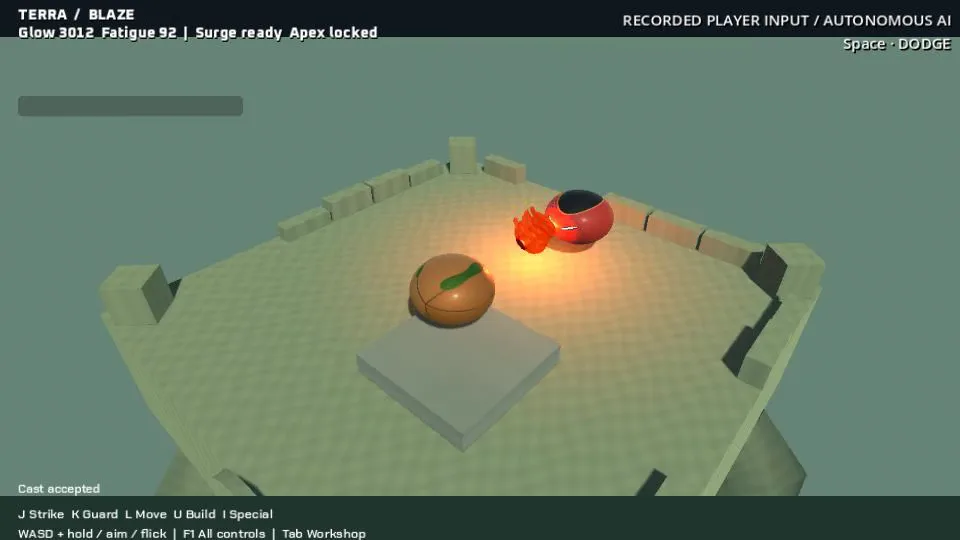
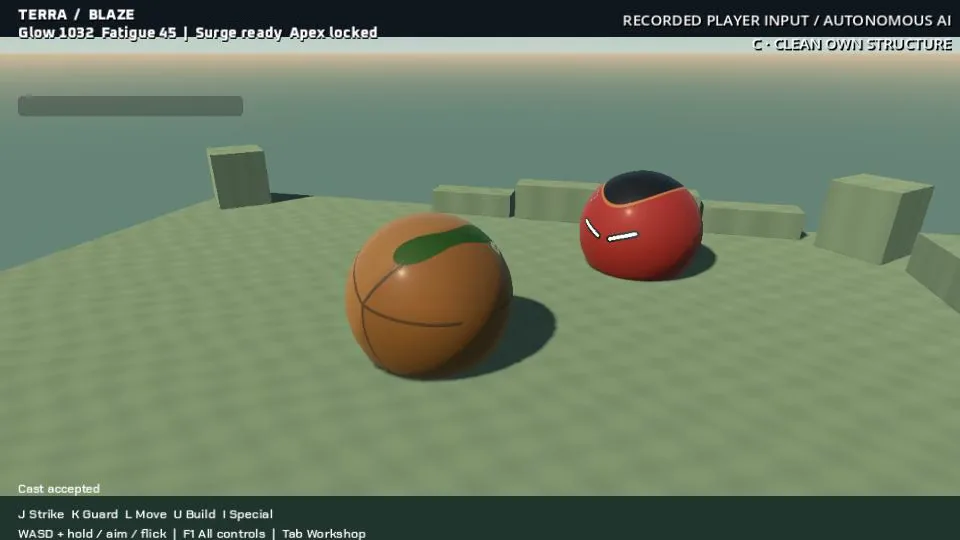
Update play stills with Clean and late movement

diff --git a/index.html b/index.html
@@ -1,1 +1,1 @@
-<!doctype html><html lang="en"><head><meta charset="utf-8"><meta name="viewport" content="width=device-width,initial-scale=1"><meta name="description" content="Orb Fighters: building a living sandbox, one readable clash at a time."><meta name="color-scheme" content="light"><title>Development journal &middot; Orb Fighters</title><link rel="stylesheet" href="assets/style.css"></head><body><a class="skip" href="#main">Skip to content</a><header><a class="brand" href="index.html"><span class="brand-mark" aria-hidden="true">OF</span><span>ORB FIGHTERS<small>DEVELOPMENT JOURNAL</small></span></a><nav aria-label="Main navigation"><a href="index.html" aria-current="page">Home</a><a href="milestones.html">Milestones</a><a href="gallery.html">Gallery</a><a href="design.html">Design</a></nav></header><main id="main"><section class="hero"><div><p class="eyebrow">A WORLD IN THE MAKING</p><h1>Small beings.<br><span>Limitless possibility.</span></h1><p class="intro">Follow Orb Fighters as a living sandbox takes shape: expressive orbs, physical powers, and fights that leave a mark.</p><a class="button" href="milestones.html">Follow the milestones <span aria-hidden="true">&rarr;</span></a></div><div class="hero-media"><a class="hero-image-link" href="posts/2026-10-02-the-orbs-side-by-side.html" aria-label="Read the orb shell development update"><figure class="wip-still"><img src="assets/media/2026-10-02-the-orbs-side-by-side-still-2.webp?v=smooth-stone" alt="MAGNUS painting beside a smooth dark slate orb with a blue meridian and small minus and plus eyes" loading="eager" decoding="async"><figcaption><span class="wip-label">Work in progress</span> MAGNUS WIP: the dark slate shell and blue meridian remain distinct. The render is cleaner and cloudier than the painting, with a fairly uniform bright eye core.</figcaption></figure></a></div></section><section class="updates"><div class="section-title"><h2>Latest from the workshop</h2><span>NEWEST FIRST</span></div><div class="post-grid"><article class="post-card"><figure class="wip-still"><a href="assets/media/2026-10-02-twenty-seconds-in-the-duel-still-2.webp"><img src="assets/media/2026-10-02-twenty-seconds-in-the-duel-still-2.webp" alt="TERRA stands on a raised stone build as BLAZE plasma lights the nearby arena" width="960" height="540" loading="lazy" decoding="async"></a><figcaption><span class="wip-label">Work in progress</span> 2.40 s - A real stone build and BLAZE plasma are visible in the same gameplay view. This recorded-input run is not human GUI play or reference animation.</figcaption></figure><div class="post-meta"><time datetime="2026-10-02T17:05+09:00">02 Oct 2026, 17:05 KST</time><span class="badge">Work in progress</span></div><h2><a href="posts/2026-10-02-twenty-seconds-in-the-duel.html">Ordinary controls in the duel</a></h2><p>A twenty-second gameplay capture runs recorded mouse and key inputs through TERRA&#39;s ordinary controls against autonomous BLAZE. The inputs are replayed, rather than entered live by a person; this is separate from the choreographed reference fight. These are the current gameplay orbs, with the new shell study still unapplied.</p><a class="read-more" href="posts/2026-10-02-twenty-seconds-in-the-duel.html">Read the update &rarr;</a></article><article class="post-card"><figure class="wip-still"><a href="assets/media/2026-10-02-a-fight-you-can-follow-still-2.webp?v=wide-pair"><img src="assets/media/2026-10-02-a-fight-you-can-follow-still-2.webp?v=wide-pair" alt="A wider fixed landing view shows both whole BLAZE and TERRA shells with the pillar beside them" width="1080" height="1920" loading="lazy" decoding="async"></a><figcaption><span class="wip-label">Work in progress</span> Approximately 8.23 s - The wider landing pair is established, with both whole shells visible and the pillar clear of them. An earlier camera transition still clips the frame edge.</figcaption></figure><div class="post-meta"><time datetime="2026-10-02T16:28+09:00">02 Oct 2026, 16:28 KST</time><span class="badge">Work in progress</span></div><h2><a href="posts/2026-10-02-a-fight-you-can-follow.html">Letting the landing read</a></h2><p>The reference fight now holds a wider, fixed view of BLAZE and TERRA through the landing. Both whole shells remain visible during the reviewed 8.25-9.25 second interval, and the pillar no longer covers them. The contact has room to read.</p><a class="read-more" href="posts/2026-10-02-a-fight-you-can-follow.html">Read the update &rarr;</a></article><article class="post-card"><figure class="wip-still"><a href="assets/media/2026-10-02-the-orbs-side-by-side-still-1.webp?v=smooth-stone"><img src="assets/media/2026-10-02-the-orbs-side-by-side-still-1.webp?v=smooth-stone" alt="Eight selected shell paintings beside smooth stone and ceramic orb renders in a dark studio" loading="lazy" decoding="async"></a><figcaption><span class="wip-label">Work in progress</span> Updated WIP: smoother stone and ceramic shells, wider lit inlays and a darker studio. Original small glyphs and distinct colours remain; wear and eye-light depth still need work.</figcaption></figure><div class="post-meta"><time datetime="2026-10-02T16:05:00+09:00">02 Oct 2026, 16:05 KST</time><span class="badge">Work in progress</span></div><h2><a href="posts/2026-10-02-the-orbs-side-by-side.html">Original small glyphs, eight shell directions</a></h2><p>Eight orb shells now read more like smooth stone and ceramic. Wider lit inlays stand out in a darker studio, while the small original eye glyphs and distinct colours remain.</p><a class="read-more" href="posts/2026-10-02-the-orbs-side-by-side.html">Read the update &rarr;</a></article><article class="post-card"><figure class="wip-still"><img src="assets/media/2026-10-01-a-cleaner-reference-fight-still-1.webp" alt="BLAZE drives an orange blade toward TERRA amid sparks in the earlier reference pass" width="1080" height="1920" loading="lazy" decoding="async"><figcaption><span class="wip-label">Work in progress</span> Before: the contact is readable, but bright sparks and steam crowd its focal point. This is authored reference-animation WIP.</figcaption></figure><div class="post-meta"><time datetime="2026-10-01T11:07:00+09:00">01 Oct 2026, 11:07 KST</time><span class="badge">M1</span><span class="badge">In progress</span></div><h2><a href="posts/2026-10-01-a-cleaner-reference-fight.html">A cleaner reference fight</a></h2><p>We have withdrawn the short video from this reference-fight update because the action is too confusing. Frequent angle changes, crowded fighters and weak plasma shapes make the exchange hard to follow. These work-in-progress stills remain for comparison while we rebuild the sequence.</p><a class="read-more" href="posts/2026-10-01-a-cleaner-reference-fight.html">Read the update <span aria-hidden="true">&rarr;</span></a></article><article class="post-card"><figure class="wip-still"><img src="assets/media/2026-10-01-moves-tested-as-a-complete-chain-still-1.webp" alt="Warm earth-colored TERRA faces vivid red BLAZE at a staged contact" width="1080" height="1920" loading="lazy" decoding="async"><figcaption><span class="wip-label">Work in progress</span> Latest selected orb material WIP. Red body shading is clearer, but the blade remains hidden; the next reference render changes the contact staging.</figcaption></figure><div class="post-meta"><time datetime="2026-10-01T09:44:00+09:00">01 Oct 2026, 09:44 KST</time><span class="badge">M1</span><span class="badge">In progress</span></div><h2><a href="posts/2026-10-01-moves-tested-as-a-complete-chain.html">Testing moves as a complete chain</a></h2><p>A technique can now reach the native duel core as a complete ordered chain of moves. The core quotes the whole chain before accepting it, so a later step cannot quietly overspend Glow or reuse matter that an earlier step has already reserved. An invalid step leaves the world unchanged.</p><a class="read-more" href="posts/2026-10-01-moves-tested-as-a-complete-chain.html">Read the update <span aria-hidden="true">&rarr;</span></a></article><article class="post-card"><figure class="wip-still"><img src="assets/media/2026-10-01-kept-builds-survive-a-fresh-world-still-1.webp" alt="A surviving stone pillar stands after a scripted Keep action" width="1080" height="1920" loading="lazy" decoding="async"><figcaption><span class="wip-label">Work in progress</span> Later native capture of the paid kept build. Its surviving state is tested, but the pale box material is unfinished; detailed stone shading is next.</figcaption></figure><div class="post-meta"><time datetime="2026-10-01T09:01:00+09:00">01 Oct 2026, 09:01 KST</time><span class="badge">M1</span><span class="badge">In progress</span></div><h2><a href="posts/2026-10-01-kept-builds-survive-a-fresh-world.html">Kept builds survive a fresh world</a></h2><p>The latest scripted control test now keeps a real, surviving stone build. The player targets it, pays once, and a repeated Keep action spends nothing extra. Clean leaves that paid kept build intact without issuing a refund.</p><a class="read-more" href="posts/2026-10-01-kept-builds-survive-a-fresh-world.html">Read the update <span aria-hidden="true">&rarr;</span></a></article><article class="post-card"><figure class="wip-still"><img src="assets/media/2026-10-01-controls-reach-the-duel-still-1.webp" alt="TERRA shapes stone beside BLAZE during a native input test" width="1080" height="1920" loading="lazy" decoding="async"><figcaption><span class="wip-label">Work in progress</span> Later recorded follow-up to the scripted contacts. The native input path works, but the pale pillar reads poorly; surface materials are next.</figcaption></figure><div class="post-meta"><time datetime="2026-10-01T08:31:00+09:00">01 Oct 2026, 08:31 KST</time><span class="badge">M1</span><span class="badge">In progress</span></div><h2><a href="posts/2026-10-01-controls-reach-the-duel.html">The controls reach the duel</a></h2><p>The latest scripted control test produced three physical contacts and a broken guard between TERRA and BLAZE. Every authored movement and power-shape upload in that run was accepted. The controls and shared motion now connect to the native duel&#39;s consequences.</p><a class="read-more" href="posts/2026-10-01-controls-reach-the-duel.html">Read the update <span aria-hidden="true">&rarr;</span></a></article><article class="post-card"><figure class="wip-still"><img src="assets/media/2026-10-01-giving-moves-real-consequences-still-1.webp" alt="TERRA and BLAZE stand beside a newly formed stone pillar" width="1080" height="1920" loading="lazy" decoding="async"><figcaption><span class="wip-label">Work in progress</span> Later native control capture, not the backend fixture described above. Geometry and costs are native, but stone shading and the small viewport need work.</figcaption></figure><div class="post-meta"><time datetime="2026-10-01T07:39:00+09:00">01 Oct 2026, 07:39 KST</time><span class="badge">M1</span><span class="badge">In progress</span></div><h2><a href="posts/2026-10-01-giving-moves-real-consequences.html">Giving moves real consequences</a></h2><p>The new duel backend now runs inside Godot. It accepts authored movement and power shapes, checks the available Glow and existing matter, and resolves physical contacts. Animation supplies the movement; the core accounts for its consequences.</p><a class="read-more" href="posts/2026-10-01-giving-moves-real-consequences.html">Read the update <span aria-hidden="true">&rarr;</span></a></article><article class="post-card"><figure class="wip-still"><img src="assets/media/2026-10-01-the-journal-is-live-still-1.webp" alt="The development journal home page with dated progress posts" width="1280" height="2258" loading="lazy" decoding="async"><figcaption><span class="wip-label">Work in progress</span> Later journal screenshot. This earlier layout still had no post media; images and short WIP clips are being added now.</figcaption></figure><div class="post-meta"><time datetime="2026-10-01T06:55:00+09:00">01 Oct 2026, 06:55 KST</time><span class="badge">M1</span><span class="badge">In progress</span></div><h2><a href="posts/2026-10-01-the-journal-is-live.html">The development journal is live</a></h2><p>This journal is now online. It brings together the latest development posts, milestone status and a readable summary of the design, so the progress of Orb Fighters is easier to follow on a phone.</p><a class="read-more" href="posts/2026-10-01-the-journal-is-live.html">Read the update <span aria-hidden="true">&rarr;</span></a></article><article class="post-card"><figure class="wip-still"><img src="assets/media/2026-10-01-making-fields-visible-still-1.webp" alt="MAGNUS prepares magnetic power above scattered metal filings" width="720" height="1280" loading="lazy" decoding="async"><figcaption><span class="wip-label">Work in progress</span> Cosmetic component WIP: tangible filings show the field, but they disappear at phone size. Larger, clearer alignment changes are next.</figcaption></figure><div class="post-meta"><time datetime="2026-10-01T05:24:00+09:00">01 Oct 2026, 05:24 KST</time><span class="badge">M1</span><span class="badge">In progress</span></div><h2><a href="posts/2026-10-01-making-fields-visible.html">Making fields visible through matter</a></h2><p>The latest MAGNUS study shows magnetic power through metal filings and moving alloy fragments. The field becomes visible through what it moves, giving this fighter a different shape language from stone, plasma and electrical discharge.</p><a class="read-more" href="posts/2026-10-01-making-fields-visible.html">Read the update <span aria-hidden="true">&rarr;</span></a></article><article class="post-card"><figure class="wip-still"><img src="assets/media/2026-10-01-framing-the-moment-of-contact-still-1.webp" alt="TERRA faces the camera under a dense stone-dust effect" width="1080" height="1920" loading="lazy" decoding="async"><figcaption><span class="wip-label">Work in progress</span> Camera-revision WIP: the fighter is large, but dense dust and speed lines compete with its eyes. Cleaner contact shapes are next.</figcaption></figure><div class="post-meta"><time datetime="2026-10-01T04:45:00+09:00">01 Oct 2026, 04:45 KST</time><span class="badge">M1</span><span class="badge">In progress</span></div><h2><a href="posts/2026-10-01-framing-the-moment-of-contact.html">Framing the moment of contact</a></h2><p>The latest reference-fight camera brings more of the action into view. In the recorded revision, 466 of 600 frames meet the current fighter-size and framing target, up from 332. The target is 480, and all three major impacts now keep the fighter shells inside their safety margin.</p><a class="read-more" href="posts/2026-10-01-framing-the-moment-of-contact.html">Read the update <span aria-hidden="true">&rarr;</span></a></article><article class="post-card"><figure class="wip-still"><img src="assets/media/2026-10-01-making-the-workshop-readable-still-1.webp" alt="TERRA is shown in a dedicated dummy view above technique fields" width="1080" height="1920" loading="lazy" decoding="async"><figcaption><span class="wip-label">Work in progress</span> Later control-only follow-up: the dummy has its own view. Combat is unavailable; more space for the fight is still needed.</figcaption></figure><div class="post-meta"><time datetime="2026-10-01T04:03:00+09:00">01 Oct 2026, 04:03 KST</time><span class="badge">M4</span><span class="badge">Groundwork</span></div><h2><a href="posts/2026-10-01-making-the-workshop-readable.html">Making the workshop readable</a></h2><p>The technique workshop now gives its live dummy a separate view. Larger text and scrolling controls let you adjust a recipe without covering the orb&#39;s eyes. The control guide has its own space, so instructions stay clear of the demonstration.</p><a class="read-more" href="posts/2026-10-01-making-the-workshop-readable.html">Read the update <span aria-hidden="true">&rarr;</span></a></article><article class="post-card"><figure class="wip-still"><img src="assets/media/2026-10-01-testing-controls-before-the-duel-still-1.webp" alt="TERRA faces BLAZE while a gesture charge is shown" width="1080" height="1920" loading="lazy" decoding="async"><figcaption><span class="wip-label">Work in progress</span> Input prototype only: combat is unavailable in this version. The faint guide and cramped opening view need correction.</figcaption></figure><div class="post-meta"><time datetime="2026-10-01T03:15:00+09:00">01 Oct 2026, 03:15 KST</time><span class="badge">M4</span><span class="badge">Groundwork</span></div><h2><a href="posts/2026-10-01-testing-controls-before-the-duel.html">Testing the controls before the duel</a></h2><p>The first control prototype now runs inside Godot. A recorded input session exercises direction and charge, releasing a technique, quick reactions, lock-on, Clean and Keep requests, and the technique workshop. Thirteen checks passed for input handling and saved recipes.</p><a class="read-more" href="posts/2026-10-01-testing-controls-before-the-duel.html">Read the update <span aria-hidden="true">&rarr;</span></a></article><article class="post-card"><figure class="wip-still"><img src="assets/media/2026-10-01-craft-and-first-playable-still-1.webp" alt="TERRA braces below a cloud of stone dust" width="1080" height="1920" loading="lazy" decoding="async"><figcaption><span class="wip-label">Work in progress</span> Later reference-animation WIP: dust and stone crowd the contact image. Clearer effect staging and quieter scenery are next.</figcaption></figure><div class="post-meta"><time datetime="2026-10-01T02:44:00+09:00">01 Oct 2026, 02:44 KST</time><span class="badge">M1</span><span class="badge">In progress</span></div><h2><a href="posts/2026-10-01-craft-and-first-playable.html">A clearer fight, a brighter world</a></h2><p>Orb Fighters is building toward fluid, creative power fights in a world that remembers what happened. The first reference spar pairs BLAZE&#39;s plasma with TERRA&#39;s stone shaping. That short fight sets the quality target before the systems grow around it.</p><a class="read-more" href="posts/2026-10-01-craft-and-first-playable.html">Read the update <span aria-hidden="true">&rarr;</span></a></article></div></section></main><footer><strong>Orb Fighters</strong><span>Original worlds. Shared rules. Unexpected fights.</span><a href="design.html">Explore the design</a></footer></body></html>
+<!doctype html><html lang="en"><head><meta charset="utf-8"><meta name="viewport" content="width=device-width,initial-scale=1"><meta name="description" content="Orb Fighters: building a living sandbox, one readable clash at a time."><meta name="color-scheme" content="light"><title>Development journal &middot; Orb Fighters</title><link rel="stylesheet" href="assets/style.css"></head><body><a class="skip" href="#main">Skip to content</a><header><a class="brand" href="index.html"><span class="brand-mark" aria-hidden="true">OF</span><span>ORB FIGHTERS<small>DEVELOPMENT JOURNAL</small></span></a><nav aria-label="Main navigation"><a href="index.html" aria-current="page">Home</a><a href="milestones.html">Milestones</a><a href="gallery.html">Gallery</a><a href="design.html">Design</a></nav></header><main id="main"><section class="hero"><div><p class="eyebrow">A WORLD IN THE MAKING</p><h1>Small beings.<br><span>Limitless possibility.</span></h1><p class="intro">Follow Orb Fighters as a living sandbox takes shape: expressive orbs, physical powers, and fights that leave a mark.</p><a class="button" href="milestones.html">Follow the milestones <span aria-hidden="true">&rarr;</span></a></div><div class="hero-media"><a class="hero-image-link" href="posts/2026-10-02-the-orbs-side-by-side.html" aria-label="Read the orb shell development update"><figure class="wip-still"><img src="assets/media/2026-10-02-the-orbs-side-by-side-still-2.webp?v=smooth-stone" alt="MAGNUS painting beside a smooth dark slate orb with a blue meridian and small minus and plus eyes" loading="eager" decoding="async"><figcaption><span class="wip-label">Work in progress</span> MAGNUS WIP: the dark slate shell and blue meridian remain distinct. The render is cleaner and cloudier than the painting, with a fairly uniform bright eye core.</figcaption></figure></a></div></section><section class="updates"><div class="section-title"><h2>Latest from the workshop</h2><span>NEWEST FIRST</span></div><div class="post-grid"><article class="post-card"><figure class="wip-still"><a href="assets/media/2026-10-02-twenty-seconds-in-the-duel-still-2.webp?v=late-clean"><img src="assets/media/2026-10-02-twenty-seconds-in-the-duel-still-2.webp?v=late-clean" alt="TERRA and BLAZE remain readable with the owned stone pillar removed after the second Clean" width="960" height="540" loading="lazy" decoding="async"></a><figcaption><span class="wip-label">Work in progress</span> 15.15 s - The world after the second actual C Clean: the owned pillar is gone and the pair is readable. This is not a successful counter or instant regeneration.</figcaption></figure><div class="post-meta"><time datetime="2026-10-02T17:05+09:00">02 Oct 2026, 17:05 KST</time><span class="badge">Work in progress</span></div><h2><a href="posts/2026-10-02-twenty-seconds-in-the-duel.html">Ordinary controls in the duel</a></h2><p>A twenty-second gameplay capture replays recorded mouse and key inputs through TERRA&#39;s ordinary controls against autonomous BLAZE. This is recorded input, not someone playing through the GUI or an authored reference fight. The current gameplay orbs remain in use; the selected shell study is still unapplied.</p><a class="read-more" href="posts/2026-10-02-twenty-seconds-in-the-duel.html">Read the update &rarr;</a></article><article class="post-card"><figure class="wip-still"><a href="assets/media/2026-10-02-a-fight-you-can-follow-still-2.webp?v=wide-pair"><img src="assets/media/2026-10-02-a-fight-you-can-follow-still-2.webp?v=wide-pair" alt="A wider fixed landing view shows both whole BLAZE and TERRA shells with the pillar beside them" width="1080" height="1920" loading="lazy" decoding="async"></a><figcaption><span class="wip-label">Work in progress</span> Approximately 8.23 s - The wider landing pair is established, with both whole shells visible and the pillar clear of them. An earlier camera transition still clips the frame edge.</figcaption></figure><div class="post-meta"><time datetime="2026-10-02T16:28+09:00">02 Oct 2026, 16:28 KST</time><span class="badge">Work in progress</span></div><h2><a href="posts/2026-10-02-a-fight-you-can-follow.html">Letting the landing read</a></h2><p>The reference fight now holds a wider, fixed view of BLAZE and TERRA through the landing. Both whole shells remain visible during the reviewed 8.25-9.25 second interval, and the pillar no longer covers them. The contact has room to read.</p><a class="read-more" href="posts/2026-10-02-a-fight-you-can-follow.html">Read the update &rarr;</a></article><article class="post-card"><figure class="wip-still"><a href="assets/media/2026-10-02-the-orbs-side-by-side-still-1.webp?v=smooth-stone"><img src="assets/media/2026-10-02-the-orbs-side-by-side-still-1.webp?v=smooth-stone" alt="Eight selected shell paintings beside smooth stone and ceramic orb renders in a dark studio" loading="lazy" decoding="async"></a><figcaption><span class="wip-label">Work in progress</span> Updated WIP: smoother stone and ceramic shells, wider lit inlays and a darker studio. Original small glyphs and distinct colours remain; wear and eye-light depth still need work.</figcaption></figure><div class="post-meta"><time datetime="2026-10-02T16:05:00+09:00">02 Oct 2026, 16:05 KST</time><span class="badge">Work in progress</span></div><h2><a href="posts/2026-10-02-the-orbs-side-by-side.html">Original small glyphs, eight shell directions</a></h2><p>Eight orb shells now read more like smooth stone and ceramic. Wider lit inlays stand out in a darker studio, while the small original eye glyphs and distinct colours remain.</p><a class="read-more" href="posts/2026-10-02-the-orbs-side-by-side.html">Read the update &rarr;</a></article><article class="post-card"><figure class="wip-still"><img src="assets/media/2026-10-01-a-cleaner-reference-fight-still-1.webp" alt="BLAZE drives an orange blade toward TERRA amid sparks in the earlier reference pass" width="1080" height="1920" loading="lazy" decoding="async"><figcaption><span class="wip-label">Work in progress</span> Before: the contact is readable, but bright sparks and steam crowd its focal point. This is authored reference-animation WIP.</figcaption></figure><div class="post-meta"><time datetime="2026-10-01T11:07:00+09:00">01 Oct 2026, 11:07 KST</time><span class="badge">M1</span><span class="badge">In progress</span></div><h2><a href="posts/2026-10-01-a-cleaner-reference-fight.html">A cleaner reference fight</a></h2><p>We have withdrawn the short video from this reference-fight update because the action is too confusing. Frequent angle changes, crowded fighters and weak plasma shapes make the exchange hard to follow. These work-in-progress stills remain for comparison while we rebuild the sequence.</p><a class="read-more" href="posts/2026-10-01-a-cleaner-reference-fight.html">Read the update <span aria-hidden="true">&rarr;</span></a></article><article class="post-card"><figure class="wip-still"><img src="assets/media/2026-10-01-moves-tested-as-a-complete-chain-still-1.webp" alt="Warm earth-colored TERRA faces vivid red BLAZE at a staged contact" width="1080" height="1920" loading="lazy" decoding="async"><figcaption><span class="wip-label">Work in progress</span> Latest selected orb material WIP. Red body shading is clearer, but the blade remains hidden; the next reference render changes the contact staging.</figcaption></figure><div class="post-meta"><time datetime="2026-10-01T09:44:00+09:00">01 Oct 2026, 09:44 KST</time><span class="badge">M1</span><span class="badge">In progress</span></div><h2><a href="posts/2026-10-01-moves-tested-as-a-complete-chain.html">Testing moves as a complete chain</a></h2><p>A technique can now reach the native duel core as a complete ordered chain of moves. The core quotes the whole chain before accepting it, so a later step cannot quietly overspend Glow or reuse matter that an earlier step has already reserved. An invalid step leaves the world unchanged.</p><a class="read-more" href="posts/2026-10-01-moves-tested-as-a-complete-chain.html">Read the update <span aria-hidden="true">&rarr;</span></a></article><article class="post-card"><figure class="wip-still"><img src="assets/media/2026-10-01-kept-builds-survive-a-fresh-world-still-1.webp" alt="A surviving stone pillar stands after a scripted Keep action" width="1080" height="1920" loading="lazy" decoding="async"><figcaption><span class="wip-label">Work in progress</span> Later native capture of the paid kept build. Its surviving state is tested, but the pale box material is unfinished; detailed stone shading is next.</figcaption></figure><div class="post-meta"><time datetime="2026-10-01T09:01:00+09:00">01 Oct 2026, 09:01 KST</time><span class="badge">M1</span><span class="badge">In progress</span></div><h2><a href="posts/2026-10-01-kept-builds-survive-a-fresh-world.html">Kept builds survive a fresh world</a></h2><p>The latest scripted control test now keeps a real, surviving stone build. The player targets it, pays once, and a repeated Keep action spends nothing extra. Clean leaves that paid kept build intact without issuing a refund.</p><a class="read-more" href="posts/2026-10-01-kept-builds-survive-a-fresh-world.html">Read the update <span aria-hidden="true">&rarr;</span></a></article><article class="post-card"><figure class="wip-still"><img src="assets/media/2026-10-01-controls-reach-the-duel-still-1.webp" alt="TERRA shapes stone beside BLAZE during a native input test" width="1080" height="1920" loading="lazy" decoding="async"><figcaption><span class="wip-label">Work in progress</span> Later recorded follow-up to the scripted contacts. The native input path works, but the pale pillar reads poorly; surface materials are next.</figcaption></figure><div class="post-meta"><time datetime="2026-10-01T08:31:00+09:00">01 Oct 2026, 08:31 KST</time><span class="badge">M1</span><span class="badge">In progress</span></div><h2><a href="posts/2026-10-01-controls-reach-the-duel.html">The controls reach the duel</a></h2><p>The latest scripted control test produced three physical contacts and a broken guard between TERRA and BLAZE. Every authored movement and power-shape upload in that run was accepted. The controls and shared motion now connect to the native duel&#39;s consequences.</p><a class="read-more" href="posts/2026-10-01-controls-reach-the-duel.html">Read the update <span aria-hidden="true">&rarr;</span></a></article><article class="post-card"><figure class="wip-still"><img src="assets/media/2026-10-01-giving-moves-real-consequences-still-1.webp" alt="TERRA and BLAZE stand beside a newly formed stone pillar" width="1080" height="1920" loading="lazy" decoding="async"><figcaption><span class="wip-label">Work in progress</span> Later native control capture, not the backend fixture described above. Geometry and costs are native, but stone shading and the small viewport need work.</figcaption></figure><div class="post-meta"><time datetime="2026-10-01T07:39:00+09:00">01 Oct 2026, 07:39 KST</time><span class="badge">M1</span><span class="badge">In progress</span></div><h2><a href="posts/2026-10-01-giving-moves-real-consequences.html">Giving moves real consequences</a></h2><p>The new duel backend now runs inside Godot. It accepts authored movement and power shapes, checks the available Glow and existing matter, and resolves physical contacts. Animation supplies the movement; the core accounts for its consequences.</p><a class="read-more" href="posts/2026-10-01-giving-moves-real-consequences.html">Read the update <span aria-hidden="true">&rarr;</span></a></article><article class="post-card"><figure class="wip-still"><img src="assets/media/2026-10-01-the-journal-is-live-still-1.webp" alt="The development journal home page with dated progress posts" width="1280" height="2258" loading="lazy" decoding="async"><figcaption><span class="wip-label">Work in progress</span> Later journal screenshot. This earlier layout still had no post media; images and short WIP clips are being added now.</figcaption></figure><div class="post-meta"><time datetime="2026-10-01T06:55:00+09:00">01 Oct 2026, 06:55 KST</time><span class="badge">M1</span><span class="badge">In progress</span></div><h2><a href="posts/2026-10-01-the-journal-is-live.html">The development journal is live</a></h2><p>This journal is now online. It brings together the latest development posts, milestone status and a readable summary of the design, so the progress of Orb Fighters is easier to follow on a phone.</p><a class="read-more" href="posts/2026-10-01-the-journal-is-live.html">Read the update <span aria-hidden="true">&rarr;</span></a></article><article class="post-card"><figure class="wip-still"><img src="assets/media/2026-10-01-making-fields-visible-still-1.webp" alt="MAGNUS prepares magnetic power above scattered metal filings" width="720" height="1280" loading="lazy" decoding="async"><figcaption><span class="wip-label">Work in progress</span> Cosmetic component WIP: tangible filings show the field, but they disappear at phone size. Larger, clearer alignment changes are next.</figcaption></figure><div class="post-meta"><time datetime="2026-10-01T05:24:00+09:00">01 Oct 2026, 05:24 KST</time><span class="badge">M1</span><span class="badge">In progress</span></div><h2><a href="posts/2026-10-01-making-fields-visible.html">Making fields visible through matter</a></h2><p>The latest MAGNUS study shows magnetic power through metal filings and moving alloy fragments. The field becomes visible through what it moves, giving this fighter a different shape language from stone, plasma and electrical discharge.</p><a class="read-more" href="posts/2026-10-01-making-fields-visible.html">Read the update <span aria-hidden="true">&rarr;</span></a></article><article class="post-card"><figure class="wip-still"><img src="assets/media/2026-10-01-framing-the-moment-of-contact-still-1.webp" alt="TERRA faces the camera under a dense stone-dust effect" width="1080" height="1920" loading="lazy" decoding="async"><figcaption><span class="wip-label">Work in progress</span> Camera-revision WIP: the fighter is large, but dense dust and speed lines compete with its eyes. Cleaner contact shapes are next.</figcaption></figure><div class="post-meta"><time datetime="2026-10-01T04:45:00+09:00">01 Oct 2026, 04:45 KST</time><span class="badge">M1</span><span class="badge">In progress</span></div><h2><a href="posts/2026-10-01-framing-the-moment-of-contact.html">Framing the moment of contact</a></h2><p>The latest reference-fight camera brings more of the action into view. In the recorded revision, 466 of 600 frames meet the current fighter-size and framing target, up from 332. The target is 480, and all three major impacts now keep the fighter shells inside their safety margin.</p><a class="read-more" href="posts/2026-10-01-framing-the-moment-of-contact.html">Read the update <span aria-hidden="true">&rarr;</span></a></article><article class="post-card"><figure class="wip-still"><img src="assets/media/2026-10-01-making-the-workshop-readable-still-1.webp" alt="TERRA is shown in a dedicated dummy view above technique fields" width="1080" height="1920" loading="lazy" decoding="async"><figcaption><span class="wip-label">Work in progress</span> Later control-only follow-up: the dummy has its own view. Combat is unavailable; more space for the fight is still needed.</figcaption></figure><div class="post-meta"><time datetime="2026-10-01T04:03:00+09:00">01 Oct 2026, 04:03 KST</time><span class="badge">M4</span><span class="badge">Groundwork</span></div><h2><a href="posts/2026-10-01-making-the-workshop-readable.html">Making the workshop readable</a></h2><p>The technique workshop now gives its live dummy a separate view. Larger text and scrolling controls let you adjust a recipe without covering the orb&#39;s eyes. The control guide has its own space, so instructions stay clear of the demonstration.</p><a class="read-more" href="posts/2026-10-01-making-the-workshop-readable.html">Read the update <span aria-hidden="true">&rarr;</span></a></article><article class="post-card"><figure class="wip-still"><img src="assets/media/2026-10-01-testing-controls-before-the-duel-still-1.webp" alt="TERRA faces BLAZE while a gesture charge is shown" width="1080" height="1920" loading="lazy" decoding="async"><figcaption><span class="wip-label">Work in progress</span> Input prototype only: combat is unavailable in this version. The faint guide and cramped opening view need correction.</figcaption></figure><div class="post-meta"><time datetime="2026-10-01T03:15:00+09:00">01 Oct 2026, 03:15 KST</time><span class="badge">M4</span><span class="badge">Groundwork</span></div><h2><a href="posts/2026-10-01-testing-controls-before-the-duel.html">Testing the controls before the duel</a></h2><p>The first control prototype now runs inside Godot. A recorded input session exercises direction and charge, releasing a technique, quick reactions, lock-on, Clean and Keep requests, and the technique workshop. Thirteen checks passed for input handling and saved recipes.</p><a class="read-more" href="posts/2026-10-01-testing-controls-before-the-duel.html">Read the update <span aria-hidden="true">&rarr;</span></a></article><article class="post-card"><figure class="wip-still"><img src="assets/media/2026-10-01-craft-and-first-playable-still-1.webp" alt="TERRA braces below a cloud of stone dust" width="1080" height="1920" loading="lazy" decoding="async"><figcaption><span class="wip-label">Work in progress</span> Later reference-animation WIP: dust and stone crowd the contact image. Clearer effect staging and quieter scenery are next.</figcaption></figure><div class="post-meta"><time datetime="2026-10-01T02:44:00+09:00">01 Oct 2026, 02:44 KST</time><span class="badge">M1</span><span class="badge">In progress</span></div><h2><a href="posts/2026-10-01-craft-and-first-playable.html">A clearer fight, a brighter world</a></h2><p>Orb Fighters is building toward fluid, creative power fights in a world that remembers what happened. The first reference spar pairs BLAZE&#39;s plasma with TERRA&#39;s stone shaping. That short fight sets the quality target before the systems grow around it.</p><a class="read-more" href="posts/2026-10-01-craft-and-first-playable.html">Read the update <span aria-hidden="true">&rarr;</span></a></article></div></section></main><footer><strong>Orb Fighters</strong><span>Original worlds. Shared rules. Unexpected fights.</span><a href="design.html">Explore the design</a></footer></body></html>

diff --git a/posts/2026-10-02-twenty-seconds-in-the-duel.html b/posts/2026-10-02-twenty-seconds-in-the-duel.html
@@ -1,1 +1,1 @@
-<!doctype html><html lang="en"><head><meta charset="utf-8"><meta name="viewport" content="width=device-width,initial-scale=1"><meta name="description" content="Orb Fighters: building a living sandbox, one readable clash at a time."><meta name="color-scheme" content="light"><title>Ordinary controls in the duel &middot; Orb Fighters</title><link rel="stylesheet" href="../assets/style.css"></head><body><a class="skip" href="#main">Skip to content</a><header><a class="brand" href="../index.html"><span class="brand-mark" aria-hidden="true">OF</span><span>ORB FIGHTERS<small>DEVELOPMENT JOURNAL</small></span></a><nav aria-label="Main navigation"><a href="../index.html" aria-current="page">Home</a><a href="../milestones.html">Milestones</a><a href="../gallery.html">Gallery</a><a href="../design.html">Design</a></nav></header><main id="main"><article class="article"><a class="back" href="../index.html">&larr; All updates</a><div class="post-meta"><time datetime="2026-10-02T17:05+09:00">02 Oct 2026, 17:05 KST</time><span class="badge">Work in progress</span></div><h1>Ordinary controls in the duel</h1><p>A twenty-second gameplay capture runs recorded mouse and key inputs through TERRA&#39;s ordinary controls against autonomous BLAZE. The inputs are replayed, rather than entered live by a person; this is separate from the choreographed reference fight. These are the current gameplay orbs, with the new shell study still unapplied.</p><p>The stills show anticipation and real stone and plasma interactions. At 12.10 seconds, a wall hides part of the contact. That frame deliberately shows the obstruction: it does not establish a successful counter, and the camera still needs to reveal the exchange.</p><p>Both fighters remain lit for all twenty seconds, but BLAZE&#39;s last accepted action is around 11.8 seconds. Late idle periods and rejected actions leave sustained combat unfinished. The next step is to keep legal actions flowing through the later part of the duel while making their consequences easier to see.</p><section class="post-visuals"><h2>Anticipation, stone and an obscured contact</h2><figure class="wip-still"><a href="../assets/media/2026-10-02-twenty-seconds-in-the-duel-still-1.webp"><img src="../assets/media/2026-10-02-twenty-seconds-in-the-duel-still-1.webp" alt="TERRA compresses in anticipation while red BLAZE faces it across the lit duel arena" width="960" height="540" loading="lazy" decoding="async"></a><figcaption><span class="wip-label">Work in progress</span> 0.60 s - Anticipation through recorded ordinary TERRA controls against autonomous BLAZE. Current gameplay orbs; the new shell study is not applied.</figcaption></figure><figure class="wip-still"><a href="../assets/media/2026-10-02-twenty-seconds-in-the-duel-still-2.webp"><img src="../assets/media/2026-10-02-twenty-seconds-in-the-duel-still-2.webp" alt="TERRA stands on a raised stone build as BLAZE plasma lights the nearby arena" width="960" height="540" loading="lazy" decoding="async"></a><figcaption><span class="wip-label">Work in progress</span> 2.40 s - A real stone build and BLAZE plasma are visible in the same gameplay view. This recorded-input run is not human GUI play or reference animation.</figcaption></figure><figure class="wip-still"><a href="../assets/media/2026-10-02-twenty-seconds-in-the-duel-still-3.webp"><img src="../assets/media/2026-10-02-twenty-seconds-in-the-duel-still-3.webp" alt="A tall stone wall partly hides TERRA and BLAZE during a close plasma exchange" width="960" height="540" loading="lazy" decoding="async"></a><figcaption><span class="wip-label">Work in progress</span> 12.10 s - The contact view deliberately exposes wall occlusion. This still does not prove a successful counter; late idle and rejected-action paths remain unfinished.</figcaption></figure></section></article></main><footer><strong>Orb Fighters</strong><span>Original worlds. Shared rules. Unexpected fights.</span><a href="../design.html">Explore the design</a></footer></body></html>
+<!doctype html><html lang="en"><head><meta charset="utf-8"><meta name="viewport" content="width=device-width,initial-scale=1"><meta name="description" content="Orb Fighters: building a living sandbox, one readable clash at a time."><meta name="color-scheme" content="light"><title>Ordinary controls in the duel &middot; Orb Fighters</title><link rel="stylesheet" href="../assets/style.css"></head><body><a class="skip" href="#main">Skip to content</a><header><a class="brand" href="../index.html"><span class="brand-mark" aria-hidden="true">OF</span><span>ORB FIGHTERS<small>DEVELOPMENT JOURNAL</small></span></a><nav aria-label="Main navigation"><a href="../index.html" aria-current="page">Home</a><a href="../milestones.html">Milestones</a><a href="../gallery.html">Gallery</a><a href="../design.html">Design</a></nav></header><main id="main"><article class="article"><a class="back" href="../index.html">&larr; All updates</a><div class="post-meta"><time datetime="2026-10-02T17:05+09:00">02 Oct 2026, 17:05 KST</time><span class="badge">Work in progress</span></div><h1>Ordinary controls in the duel</h1><p>A twenty-second gameplay capture replays recorded mouse and key inputs through TERRA&#39;s ordinary controls against autonomous BLAZE. This is recorded input, not someone playing through the GUI or an authored reference fight. The current gameplay orbs remain in use; the selected shell study is still unapplied.</p><p>Inward dodges now get accepted. The duel core executes ordinary Clean at 13.1 and 15.1 seconds, removing owned stone and returning part of its bound Glow. The 15.15-second still shows the world after the second Clean: the pillar is gone and the pair is readable. The Glow comes from the removed stone.</p><p>BLAZE takes a legal last affordable action around 16.4 seconds, and TERRA moves again near nineteen seconds with ordinary Space input. Both remain lit for twenty seconds. Low resources, rejected paths, obstruction and weak impact feedback still interrupt the duel. The full film stays private; sustained, fluid combat is unfinished.</p><section class="post-visuals"><h2>Anticipation, Clean and late movement</h2><figure class="wip-still"><a href="../assets/media/2026-10-02-twenty-seconds-in-the-duel-still-1.webp?v=late-clean"><img src="../assets/media/2026-10-02-twenty-seconds-in-the-duel-still-1.webp?v=late-clean" alt="TERRA compresses in anticipation opposite autonomous BLAZE in the lit gameplay arena" width="960" height="540" loading="lazy" decoding="async"></a><figcaption><span class="wip-label">Work in progress</span> 0.60 s - Anticipation through recorded ordinary TERRA inputs versus autonomous BLAZE. These are the current gameplay orbs, without the selected shell redesign.</figcaption></figure><figure class="wip-still"><a href="../assets/media/2026-10-02-twenty-seconds-in-the-duel-still-2.webp?v=late-clean"><img src="../assets/media/2026-10-02-twenty-seconds-in-the-duel-still-2.webp?v=late-clean" alt="TERRA and BLAZE remain readable with the owned stone pillar removed after the second Clean" width="960" height="540" loading="lazy" decoding="async"></a><figcaption><span class="wip-label">Work in progress</span> 15.15 s - The world after the second actual C Clean: the owned pillar is gone and the pair is readable. This is not a successful counter or instant regeneration.</figcaption></figure><figure class="wip-still"><a href="../assets/media/2026-10-02-twenty-seconds-in-the-duel-still-3.webp?v=late-clean"><img src="../assets/media/2026-10-02-twenty-seconds-in-the-duel-still-3.webp?v=late-clean" alt="TERRA beside a low stone build during late ordinary Space movement with BLAZE visible ahead" width="960" height="540" loading="lazy" decoding="async"></a><figcaption><span class="wip-label">Work in progress</span> 19.35 s - Actual late movement through ordinary Space input, not a hit. Resources are low and some obstruction remains; sustained combat is unfinished.</figcaption></figure></section></article></main><footer><strong>Orb Fighters</strong><span>Original worlds. Shared rules. Unexpected fights.</span><a href="../design.html">Explore the design</a></footer></body></html>
